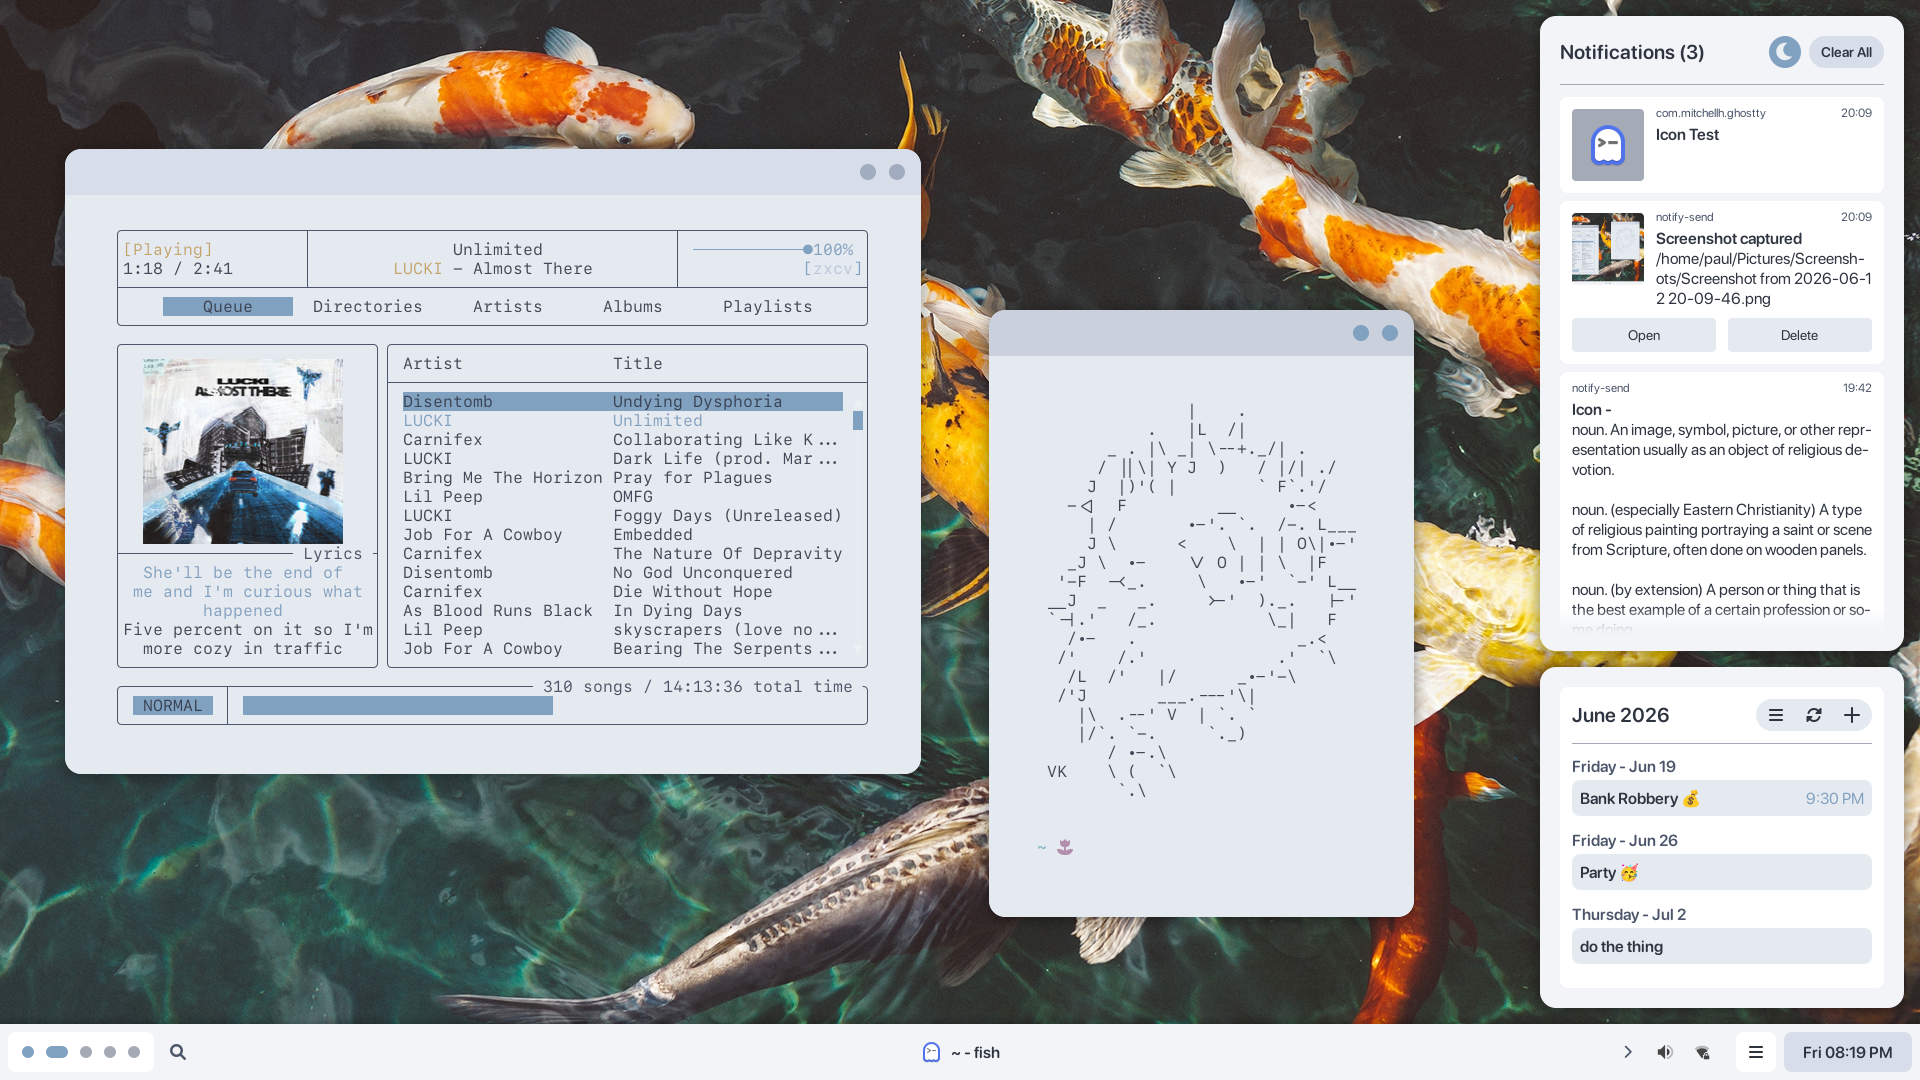
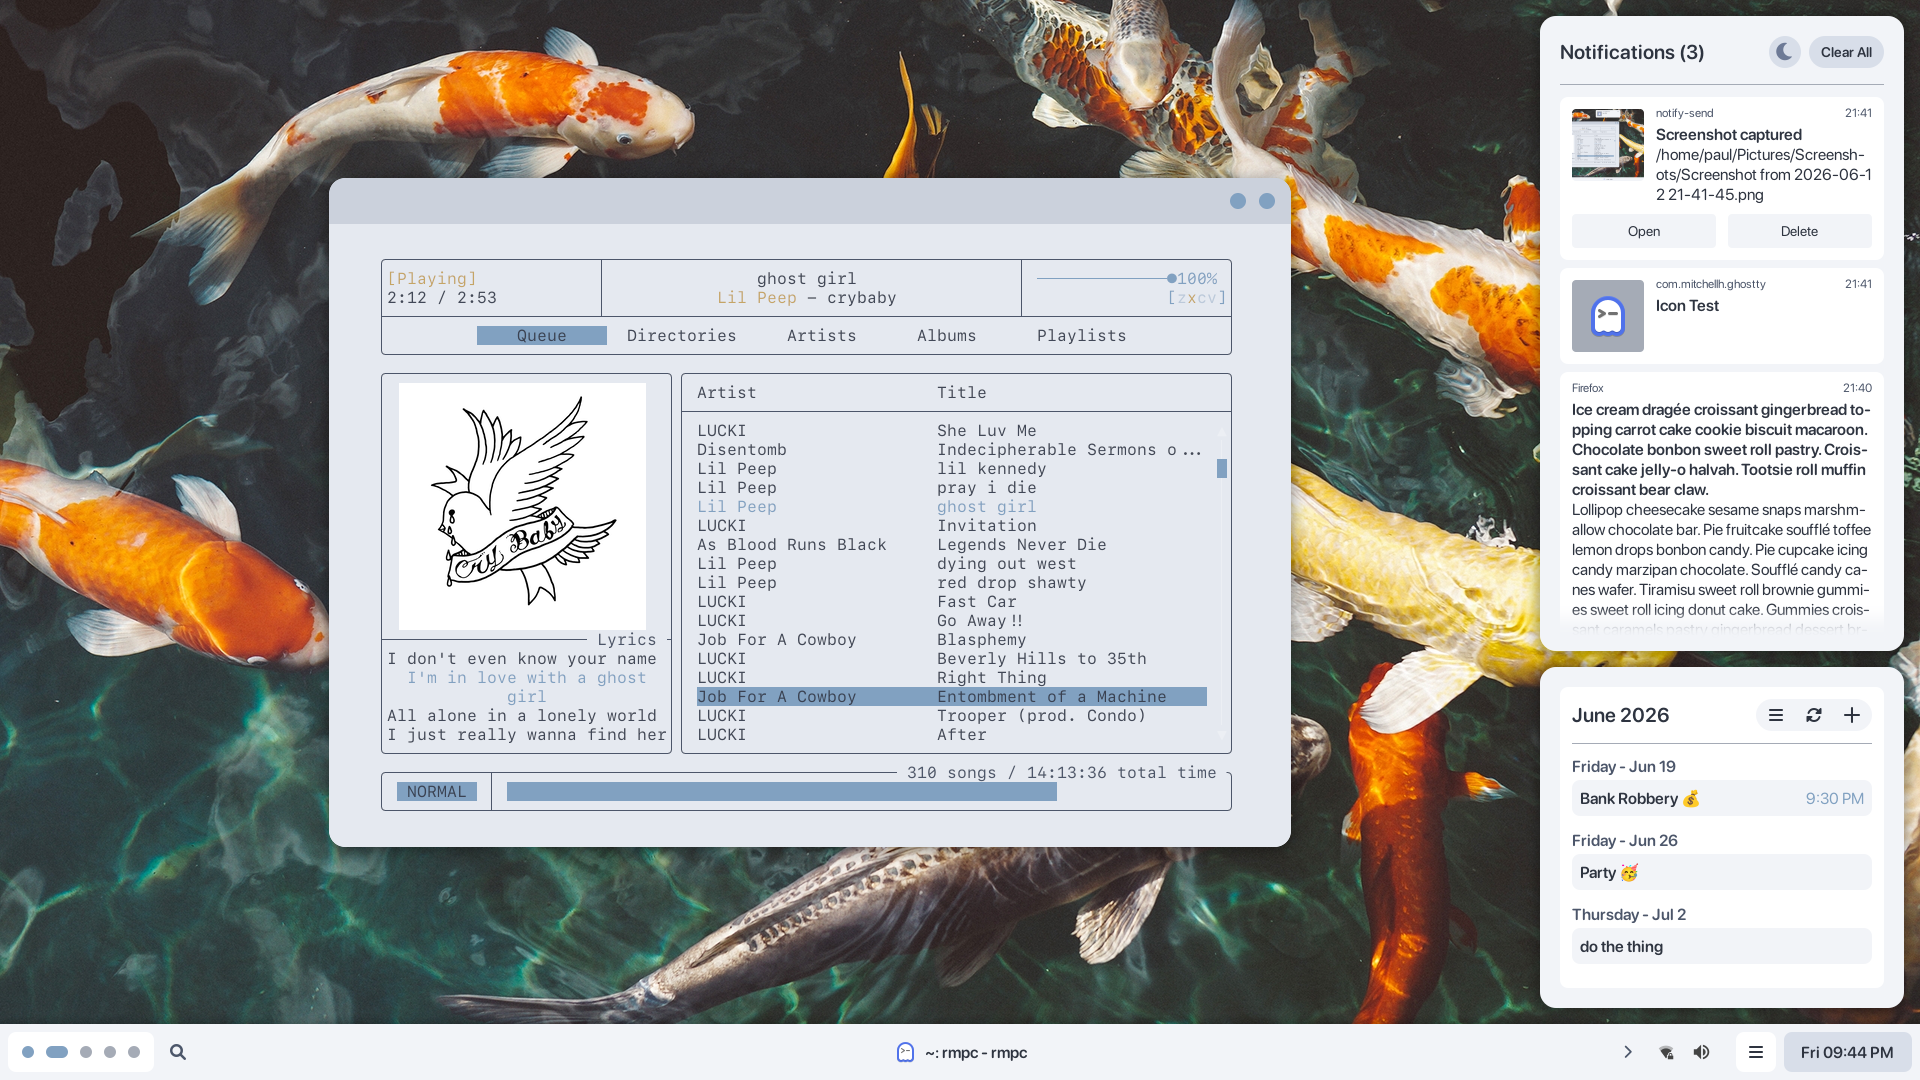
new screenshots

diff --git a/.config/eww/themes/nord-light.scss b/.config/eww/themes/nord-light.scss
@@ -1,6 +1,6 @@
-$base      : #eceff4;
+$base      : #f2f4f8;
 $surface0  : #ffffff;
-$surface1  : #eceff4;
+$surface1  : #f2f4f8;
 $surface2  : #a5abb6;
 $overlay0  : #a5abb6;
 $overlay1  : #6d7a96;